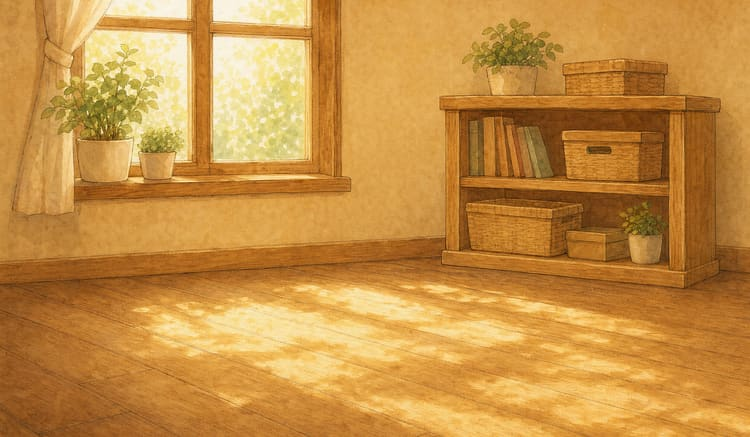
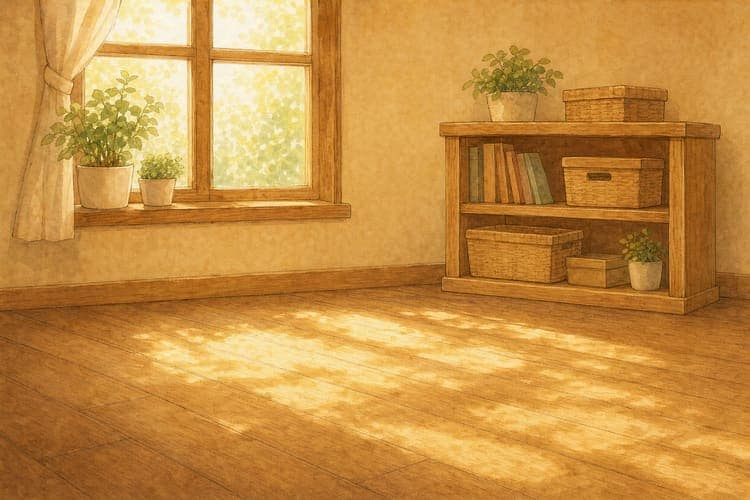
小窝场景 400→465px(压矮到位：贡献榜底部与 tab 栏保持与板块间一致的标准间距，此前 400 过矮留白过大)；背景重裁偏上(上部窗/架占比增加、地板减少, position top)并 q73 微压(49.6→45.8KB)；照顾栏/贡献榜间距各+6px 呼吸感；契约断言同步 465px

diff --git a/miniapp/src/components/PetStatusCard.scss b/miniapp/src/components/PetStatusCard.scss
@@ -1,7 +1,7 @@
 /* 小窝状态卡：上半场景（背景通栏顶对齐裁底 + 小多利踩地脚线 + 说话飘字 + 名片入口），下半紧凑状态区。
-   场景收矮到 400px 让名片/状态区/贡献榜免滚动可见；状态条加粗提质感；整卡与照顾栏/贡献榜保证小窝一屏不放滚动。 */
+   场景收矮到 465px 让贡献榜底部与 tab 栏保持标准间距；状态条加粗提质感；整卡与照顾栏/贡献榜保证小窝一屏不放滚动。 */
 .pet-status-card { overflow: hidden; border-radius: 28px; background: #fffaf6; box-shadow: 0 12px 32px rgba(113,77,38,.12); }
-.pet-card-scene { position: relative; height: 400px; overflow: hidden; background: linear-gradient(180deg,#ffe9c7,#fff4df); }
+.pet-card-scene { position: relative; height: 465px; overflow: hidden; background: linear-gradient(180deg,#ffe9c7,#fff4df); }
 .pet-card-scene::after { position: absolute; inset: 0; z-index: 1; background: linear-gradient(180deg,rgba(255,242,221,.08),rgba(143,91,52,.1)); content: ''; pointer-events: none; }
 /* 背景通栏（658rpx 宽 → 高约 896rpx），顶部对齐，底部溢出裁掉 */
 .pet-card-background { position: absolute; top: 0; left: 0; width: 100%; }

diff --git a/miniapp/src/config/miniappMainLayout.test.ts b/miniapp/src/config/miniappMainLayout.test.ts
@@ -90,9 +90,9 @@ describe('miniapp main layout', () => {
     expect(petCardSource).toContain("const PET_CARD_FILE = 'pet-card-v1.jpg'")
     expect(statusCardSource).toContain('onOpenCard')
     expect(statusCardSource).toContain('pet-name-card')
-    // 背景通栏 widthFix 顶部对齐裁掉底部；场景 400px（贡献榜免滚动可见）；状态条加粗 16rpx
+    // 背景通栏 widthFix 顶部对齐裁掉底部；场景 465px（贡献榜底部与 tab 栏标准间距）；状态条加粗 16rpx
     expect(statusCardSource).toContain('mode="widthFix"')
-    expect(statusCardStyles).toMatch(/\.pet-card-scene\s*\{[\s\S]*height:\s*400px;/)
+    expect(statusCardStyles).toMatch(/\.pet-card-scene\s*\{[\s\S]*height:\s*465px;/)
     expect(statusCardStyles).toMatch(/\.pet-card-background\s*\{[\s\S]*top:\s*0;/)
     expect(statusCardStyles).toMatch(/\.experience-track,\s*\.status-track\s*\{[\s\S]*height:\s*16rpx;/)
   })

diff --git a/miniapp/src/components/PetActionBar.scss b/miniapp/src/components/PetActionBar.scss
@@ -1,4 +1,4 @@
-.pet-actions-panel { margin-top: 8px; padding: 16px 20px; border: 1px solid #e8bd91; border-radius: 22px; background: #fff7e9; }
+.pet-actions-panel { margin-top: 14px; padding: 16px 20px; border: 1px solid #e8bd91; border-radius: 22px; background: #fff7e9; }
 .pet-actions-title { color: #a98d7e; font-size: var(--font-size-aux); font-weight: var(--font-weight-medium); }
 .pet-actions { display: grid; grid-template-columns: repeat(4,1fr); gap: 12px; margin-top: 8px; }
 .pet-action-button { position: relative; display: flex; flex-direction: column; align-items: center; color: #765c47; font-size: var(--font-size-aux); }

diff --git a/miniapp/src/features/main/MiniappContributionBoard.scss b/miniapp/src/features/main/MiniappContributionBoard.scss
@@ -1,4 +1,5 @@
 .miniapp-contribution-board {
+  margin-top: 14px;
   padding: 14px 20px;
   background: #fff7e9;
   border: 1px solid #e8bd91;
